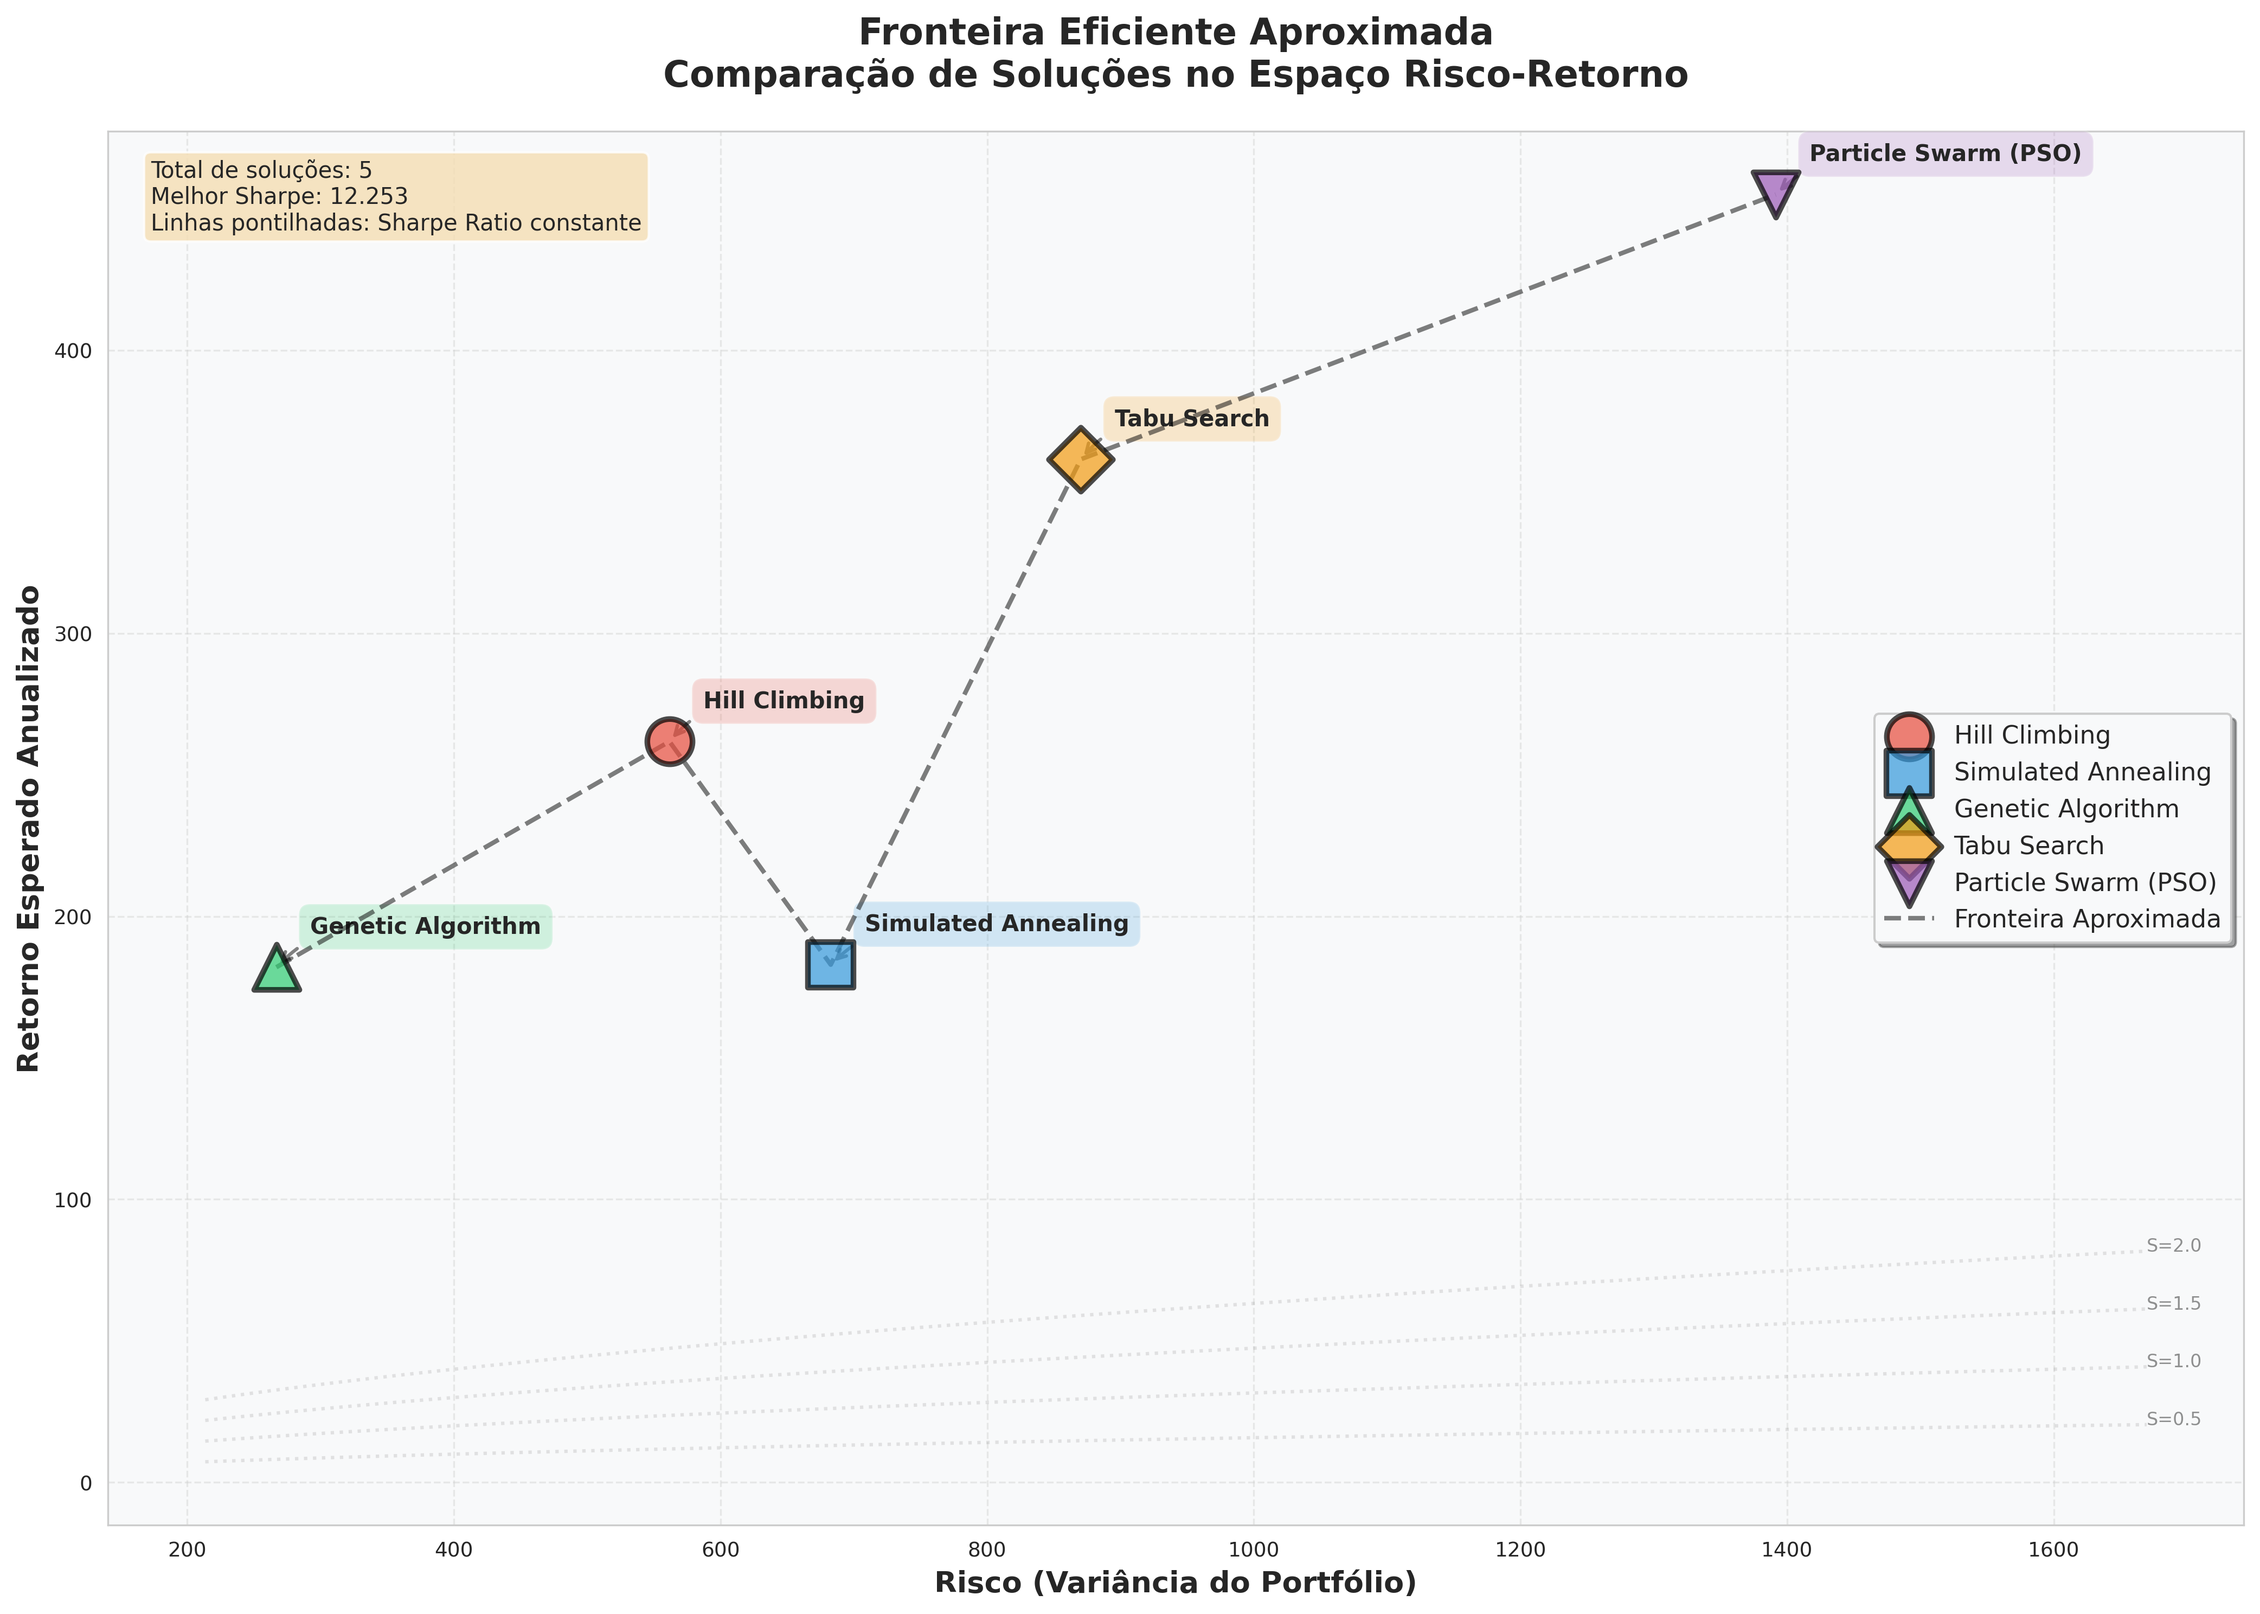
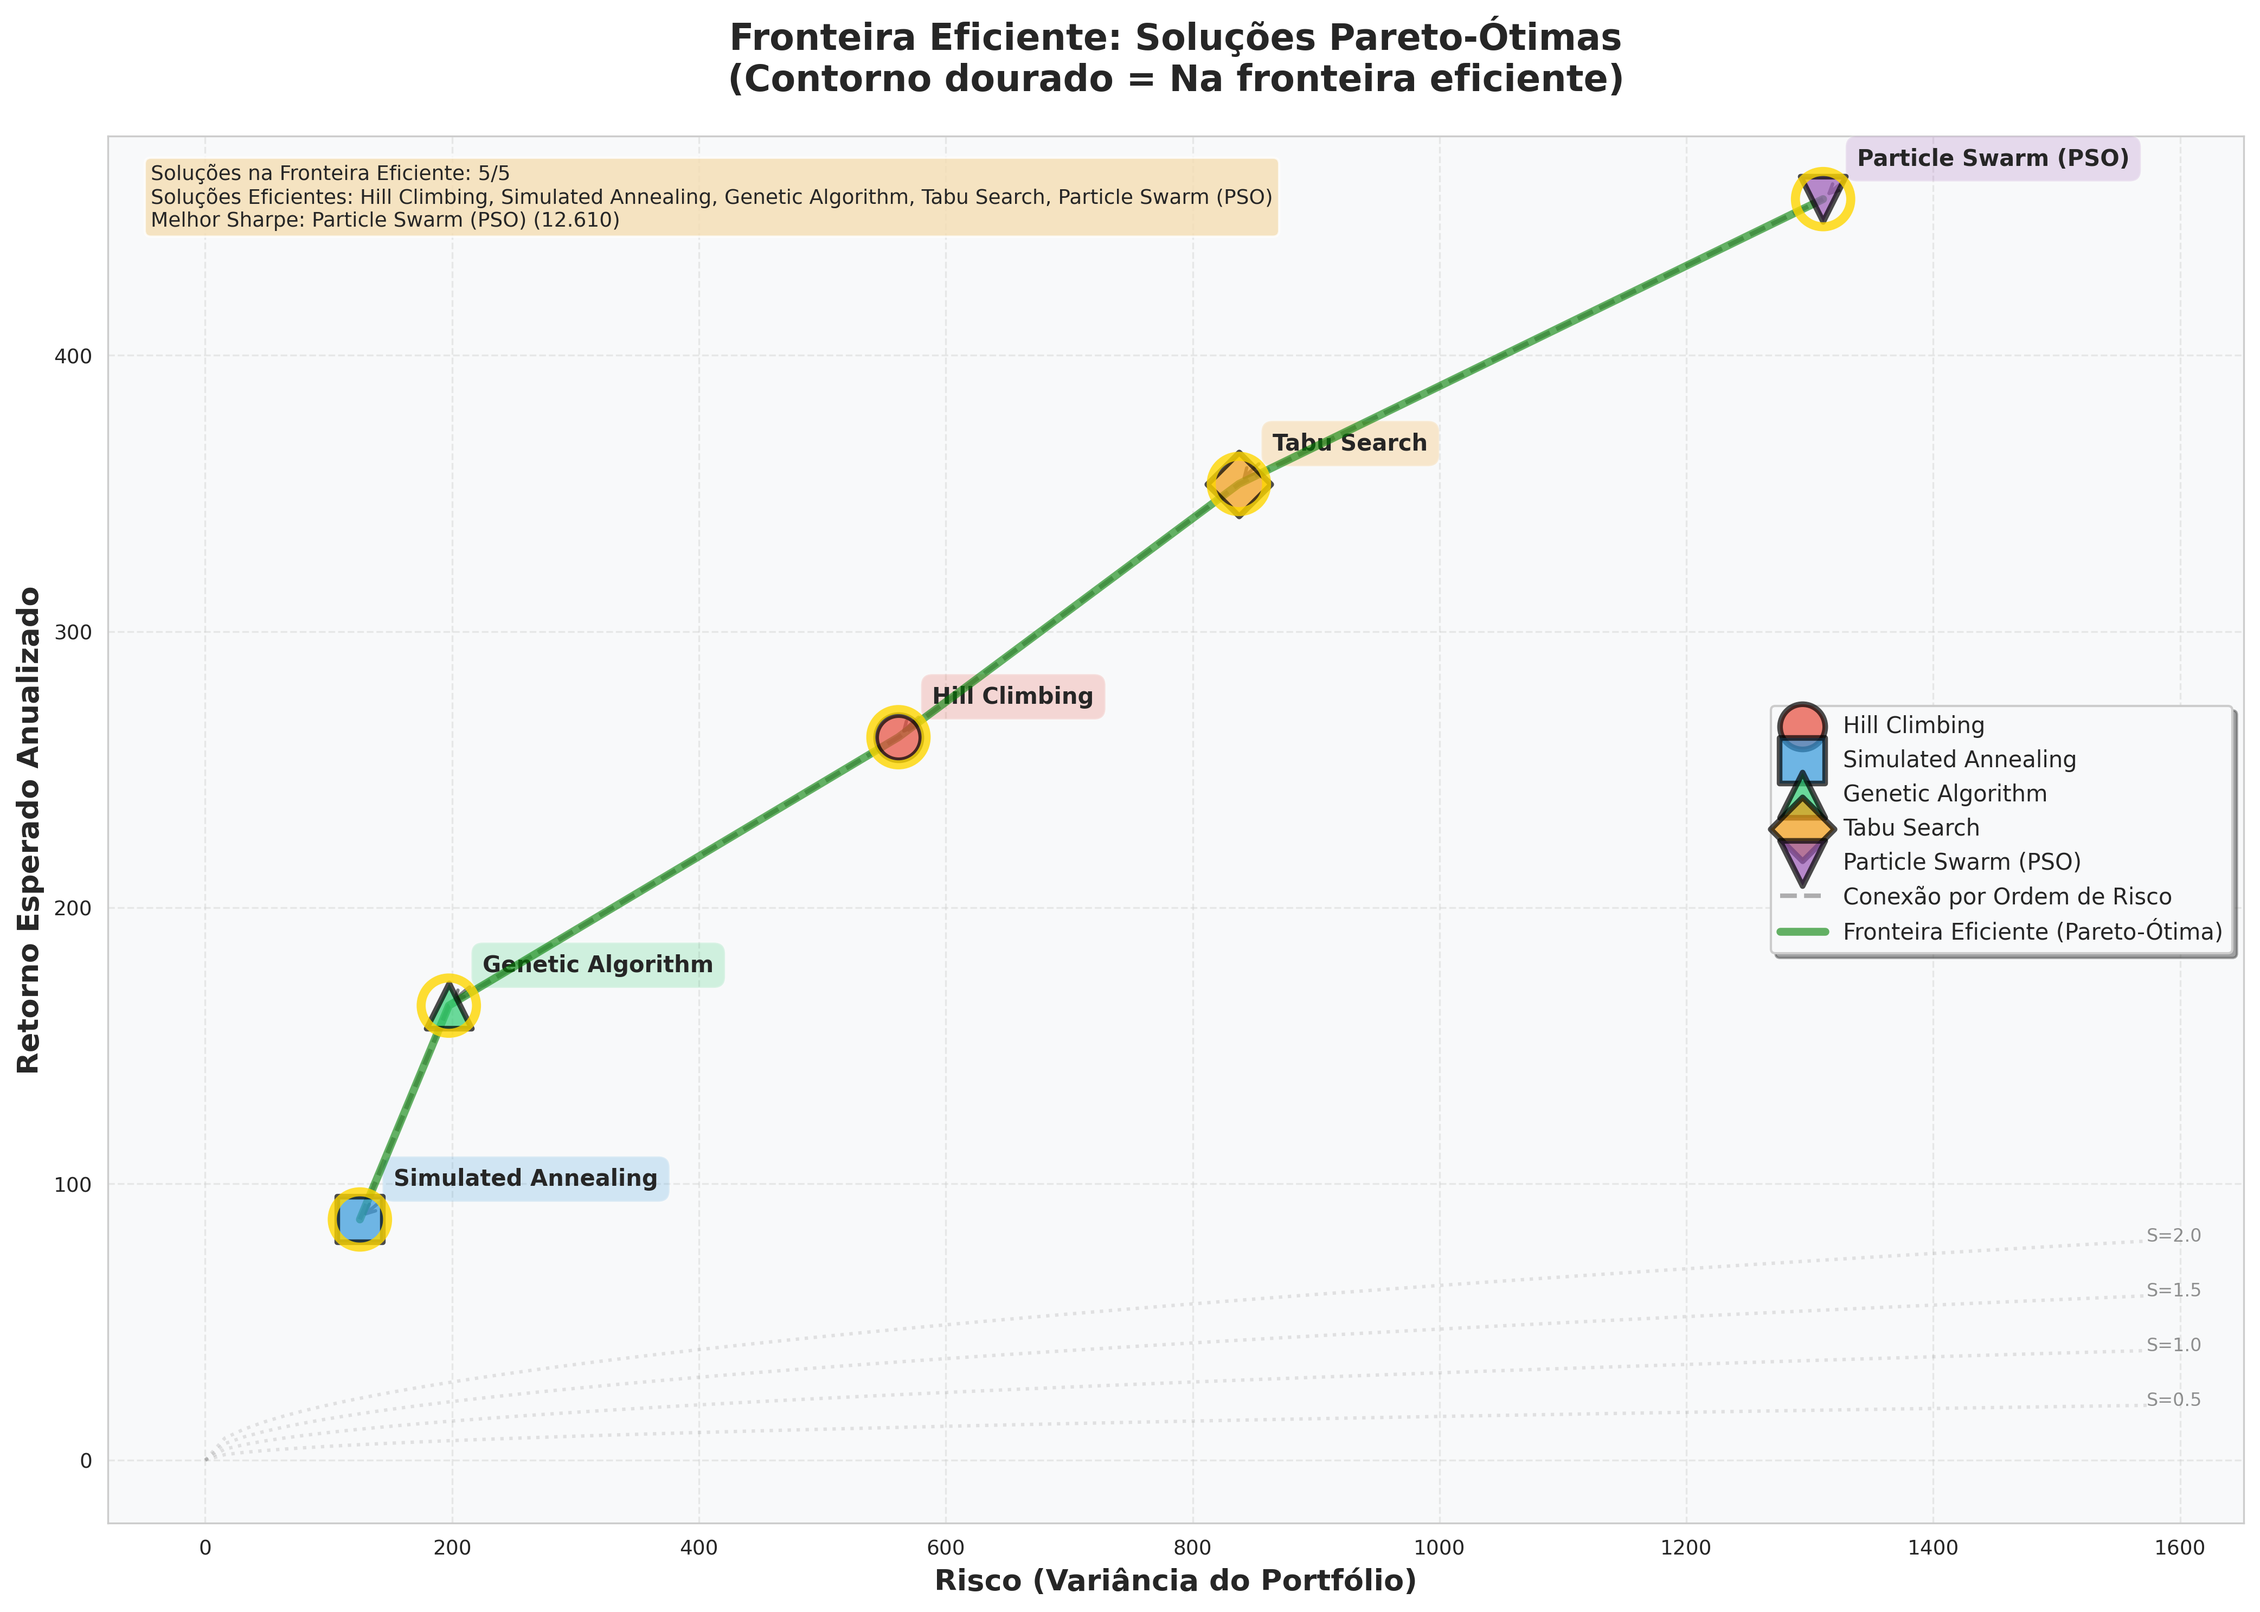
mudanças

diff --git a/otimizador.py b/otimizador.py
@@ -209,7 +209,14 @@ def get_random_neighbor(x, n, p, B, k, aggressive=True):
     return x_neighbor
 
 def simulated_annealing(n, mu, sigma, p, B, k, lambda_val, alpha, beta, 
-                        max_iter=10000, T_initial=1000.0, T_final=0.1, cooling_rate=0.99):
+                        max_iter=10000, T_initial=1000.0, T_final=0.1, 
+                        cooling_rate=0.99, aggressive_neighbors=True):
+    """
+    Simulated Annealing com opção de estratégia de vizinhança.
+    
+    aggressive_neighbors=True: Usa mais budget rapidamente (pode sair da fronteira)
+    aggressive_neighbors=False: Exploração mais conservadora (melhor para Pareto)
+    """
     current_x = np.zeros(n, dtype=int)
     current_fitness = calculate_fitness(current_x, mu, sigma, p, B, k, lambda_val, alpha, beta)
     best_x = current_x
@@ -219,7 +226,7 @@ def simulated_annealing(n, mu, sigma, p, B, k, lambda_val, alpha, beta,
     
     for i in range(max_iter):
         if T <= T_final: break
-        new_x = get_random_neighbor(current_x, n, p, B, k, aggressive=True)
+        new_x = get_random_neighbor(current_x, n, p, B, k, aggressive=aggressive_neighbors)
         new_fitness = calculate_fitness(new_x, mu, sigma, p, B, k, lambda_val, alpha, beta)
         delta_fitness = new_fitness - current_fitness
         
@@ -1070,6 +1077,7 @@ def plot_efficient_frontier(results_data, mu, sigma):
     # Plot algorithm solutions
     risks = []
     returns = []
+    names_list = []
     
     for idx, (name, x, fitness) in enumerate(results_data):
         ret = calculate_return(x, mu)
@@ -1077,6 +1085,7 @@ def plot_efficient_frontier(results_data, mu, sigma):
         
         risks.append(risk)
         returns.append(ret)
+        names_list.append(name)
         
         ax.scatter(risk, ret, s=400, 
                   color=colors[idx % len(colors)],
@@ -1095,20 +1104,58 @@ def plot_efficient_frontier(results_data, mu, sigma):
                                   connectionstyle='arc3,rad=0.3',
                                   color='gray', lw=1.5))
     
-    # Sort solutions by risk for frontier line
+    # Sort solutions by risk for connection line
     sorted_indices = np.argsort(risks)
     sorted_risks = [risks[i] for i in sorted_indices]
     sorted_returns = [returns[i] for i in sorted_indices]
     
-    # Draw approximate efficient frontier
-    ax.plot(sorted_risks, sorted_returns, 'k--', alpha=0.5, 
-           linewidth=2, label='Fronteira Aproximada', zorder=3)
+    # Draw line connecting solutions (sorted by risk)
+    ax.plot(sorted_risks, sorted_returns, 'k--', alpha=0.3, 
+           linewidth=2, label='Conexão por Ordem de Risco', zorder=2)
     
-    # Add reference lines for different return levels
+    # Identify and draw TRUE efficient frontier (upper convex hull)
+    # A solution is on efficient frontier if no other solution dominates it
+    efficient_mask = []
+    for i in range(len(risks)):
+        is_efficient = True
+        for j in range(len(risks)):
+            if i != j:
+                # j dominates i if: same or better return AND less risk
+                if returns[j] >= returns[i] and risks[j] <= risks[i]:
+                    if returns[j] > returns[i] or risks[j] < risks[i]:
+                        is_efficient = False
+                        break
+        efficient_mask.append(is_efficient)
+    
+    # Get efficient solutions
+    efficient_risks = [risks[i] for i in range(len(risks)) if efficient_mask[i]]
+    efficient_returns = [returns[i] for i in range(len(returns)) if efficient_mask[i]]
+    efficient_names = [names_list[i] for i in range(len(names_list)) if efficient_mask[i]]
+    
+    if len(efficient_risks) > 1:
+        # Sort efficient frontier by risk
+        eff_sorted = sorted(zip(efficient_risks, efficient_returns))
+        eff_risks_sorted = [r for r, _ in eff_sorted]
+        eff_returns_sorted = [ret for _, ret in eff_sorted]
+        
+        # Draw TRUE efficient frontier
+        ax.plot(eff_risks_sorted, eff_returns_sorted, 'g-', 
+               linewidth=3.5, alpha=0.6, 
+               label='Fronteira Eficiente (Pareto-Ótima)', zorder=4)
+        
+        # Highlight efficient solutions
+        for i, name in enumerate(names_list):
+            if efficient_mask[i]:
+                # Add a star/crown emoji in annotation
+                ax.scatter(risks[i], returns[i], s=600, 
+                          facecolors='none', edgecolors='gold', 
+                          linewidths=4, zorder=6, alpha=0.8)
+    
+    # Add reference lines for different Sharpe ratios
     if len(risks) > 0:
         min_risk = min(risks)
         max_risk = max(risks)
-        risk_range = np.linspace(min_risk * 0.8, max_risk * 1.2, 100)
+        risk_range = np.linspace(0, max_risk * 1.2, 100)
         
         # Constant Sharpe ratio lines
         for sharpe in [0.5, 1.0, 1.5, 2.0]:
@@ -1116,25 +1163,30 @@ def plot_efficient_frontier(results_data, mu, sigma):
             ax.plot(risk_range, ret_line, ':', alpha=0.2, linewidth=1.5,
                    color='gray')
             # Label at the end
-            ax.text(risk_range[-1], ret_line[-1], f'S={sharpe}',
-                   fontsize=8, alpha=0.5)
+            if ret_line[-1] < max(returns) * 1.3:
+                ax.text(risk_range[-1], ret_line[-1], f'S={sharpe}',
+                       fontsize=8, alpha=0.5)
     
     ax.set_xlabel('Risco (Variância do Portfólio)', 
                  fontweight='bold', fontsize=13)
     ax.set_ylabel('Retorno Esperado Anualizado', 
                  fontweight='bold', fontsize=13)
-    ax.set_title('Fronteira Eficiente Aproximada\n'
-                'Comparação de Soluções no Espaço Risco-Retorno',
+    ax.set_title('Fronteira Eficiente: Soluções Pareto-Ótimas\n'
+                '(Contorno dourado = Na fronteira eficiente)',
                 fontweight='bold', fontsize=16, pad=20)
-    ax.legend(loc='best', frameon=True, shadow=True, fontsize=11)
+    ax.legend(loc='best', frameon=True, shadow=True, fontsize=10)
     ax.grid(True, linestyle='--', alpha=0.4)
     
     # Add info box
-    info_text = (f'Total de soluções: {len(results_data)}\n'
-                f'Melhor Sharpe: {max([r/np.sqrt(risk) for r, risk in zip(returns, risks) if risk > 0]):.3f}\n'
-                f'Linhas pontilhadas: Sharpe Ratio constante')
+    n_efficient = sum(efficient_mask)
+    best_sharpe_idx = np.argmax([r/np.sqrt(risk) for r, risk in zip(returns, risks) if risk > 0])
+    
+    info_text = (f'Soluções na Fronteira Eficiente: {n_efficient}/{len(results_data)}\n'
+                f'Soluções Eficientes: {", ".join(efficient_names)}\n'
+                f'Melhor Sharpe: {names_list[best_sharpe_idx]} '
+                f'({max([r/np.sqrt(risk) for r, risk in zip(returns, risks)]):.3f})')
     ax.text(0.02, 0.98, info_text, transform=ax.transAxes,
-           fontsize=10, verticalalignment='top',
+           fontsize=9, verticalalignment='top',
            bbox=dict(boxstyle='round', facecolor='wheat', alpha=0.8))
     
     plt.tight_layout()
@@ -1561,6 +1613,15 @@ if __name__ == "__main__":
         TS_TABU_TENURE = int(n * 0.5) # Lista tabu de 50 (para n=100)
         PSO_MAX_ITER = 150
         PSO_N_PARTICLES = 80
+        
+        # Simulated Annealing Strategy:
+        # aggressive_neighbors=False: Mais conservador, explora melhor o espaço
+        #                             Pode ter melhor posição na fronteira Pareto
+        #                             Usa ~93-97% do budget
+        # aggressive_neighbors=True:  Mais agressivo, usa mais budget
+        #                             Pode ter maior fitness absoluto
+        #                             Usa ~99% do budget
+        SA_AGGRESSIVE = False  # ← MUDE AQUI para experimentar
         # ------------------------------------
         
         print("\n(1/5) A executar Hill Climbing...")
@@ -1570,7 +1631,8 @@ if __name__ == "__main__":
         
         print("\n(2/5) A executar Simulated Annealing...")
         sa_x, sa_fit, sa_hist = simulated_annealing(
-            n, mu, sigma, p, B, k, lambda_val, alpha, beta, max_iter=SA_MAX_ITER
+            n, mu, sigma, p, B, k, lambda_val, alpha, beta, max_iter=SA_MAX_ITER,
+            aggressive_neighbors=SA_AGGRESSIVE
         )
         
         print("\n(3/5) A executar Genetic Algorithm...")
